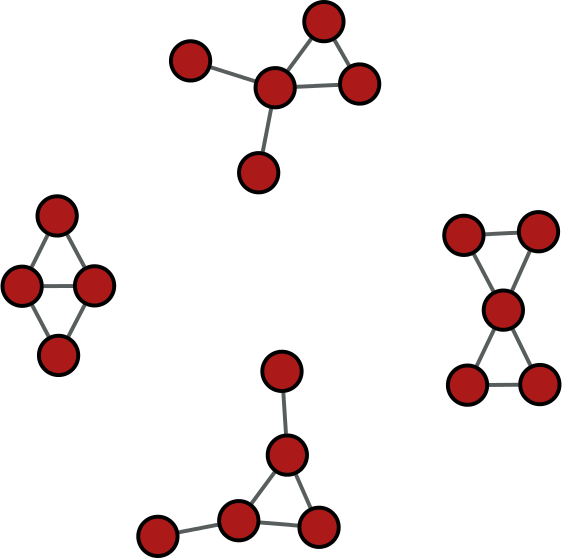
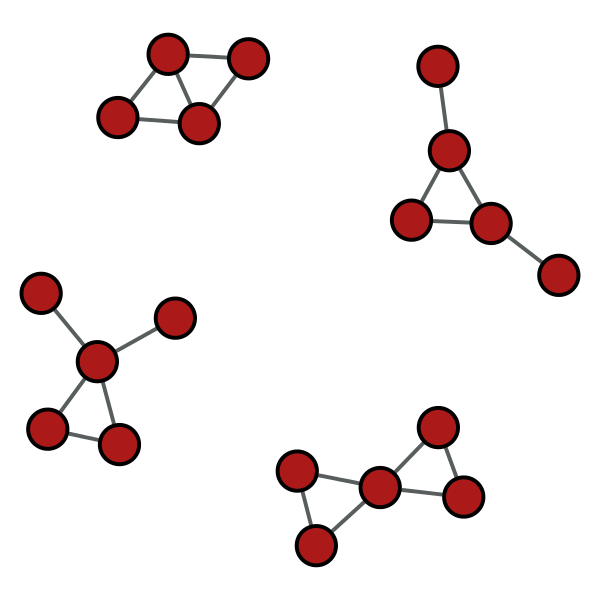
Added table for secondary sequences.

Changed region(s): [[0.1512, 0.0, 1.0, 1.0], [0.0, 0.3351, 0.3327, 0.7921]]

diff --git a/report/report.tex b/report/report.tex
@@ -194,8 +194,9 @@ building sequences
 \newcommand{\VARdiameter}{\text{dia}(g)}
 \newcommand{\VARgirth}{\text{girth}(g)}
 \newcommand{\VARnarticulationpoints}{a(g)}
-\newcommand{\VARsubgraph}{s}
+\newcommand{\VARmaximalindependentvertexset}{\alpha(g)}
 
+\newcommand{\VARsubgraph}{s}
 \newcommand{\namedsubgraph}[1]{\VARsubgraph{}(g,#1)}
 \newcommand{\VARissubgraphfreeKthree}{\namedsubgraph{K_3}}
 \newcommand{\VARissubgraphfreeKfour}{\namedsubgraph{K_4}}
@@ -216,8 +217,11 @@ building sequences
 \newcommand{\VARisintegral}{\indicatorfunction{integral}}
 \newcommand{\VARischordal}{\indicatorfunction{chordal}}
 \newcommand{\VARisrealspectrum}{\indicatorfunction{real}}
-
-%\newcommand{\VARhasfractionaldualitygapvertexchromatic}{}
+\newcommand{\VARhasfractionaldualitygapvertexchromatic}{\indicatorfunction{chromatic gap}}
+\newcommand{\VARishamiltonian}{\indicatorfunction{Hamiltonian}}
+\newcommand{\VARisbipartite}{\indicatorfunction{Bipartite}}
+\newcommand{\VARiseulerian}{\indicatorfunction{Eulerian}}
+\newcommand{\VARisplanar}{\indicatorfunction{Planar}}
 
 \note{Broadly describe the categories}
 Discuss which algorithm was used, the software, \texttt{networkx} \cite{SciPyProceedings_11}, \texttt{graph-tool} \needref, etc...
@@ -399,17 +403,91 @@ OEIS & Invariant & \multicolumn{10}{l}{Sequence} \\
 \OEIS{A242953} & $\VARisrealspectrum =0$ & 0 & 0 & 1 & 3 & 10 & 58 & 314 & 3798 & 51609 & 1716267 \\
 \OEIS{A243241} & $\VARisstronglyregular =0$ & 0 & 0 & 1 & 4 & 19 & 109 & 852 & 11114 & 261077 & 11716566 \\
 
-%\OEIS{A243251} & $\VARhasfractionaldualitygapvertexchromatic =1$ & 0 & 0 & 0 & 0 & 1 & 3 & 33 & 496 & 16464 & 969293 \\
-%\OEIS{A243252} & $\VARhasfractionaldualitygapvertexchromatic =0$ & 1 & 1 & 2 & 6 & 20 & 109 & 820 & 10621 & 244616 & 10747278 \\
-%\OEIS{A243781} & $\VARmaximalindependentvertexset =2$ & 0 & 0 & 1 & 4 & 11 & 34 & 103 & 405 & 1892 & 12166 \\
-%\OEIS{A243782} & $\VARmaximalindependentvertexset =3$ & 0 & 0 & 0 & 1 & 8 & 63 & 524 & 5863 & 100702 & 2880002 \\
-%\OEIS{A243783} & $\VARmaximalindependentvertexset =4$ & 0 & 0 & 0 & 0 & 1 & 13 & 205 & 4308 & 135563 & 7161399 \\
-%\OEIS{A243784} & $\VARmaximalindependentvertexset =5$ & 0 & 0 & 0 & 0 & 0 & 1 & 19 & 513 & 21782 & 1576634 \\
+\OEIS{A243251} & $\VARhasfractionaldualitygapvertexchromatic =1$ & 0 & 0 & 0 & 0 & 1 & 3 & 33 & 496 & 16464 & 969293 \\
+\OEIS{A243252} & $\VARhasfractionaldualitygapvertexchromatic =0$ & 1 & 1 & 2 & 6 & 20 & 109 & 820 & 10621 & 244616 & 10747278 \\
+
+\OEIS{A243781} & $\VARmaximalindependentvertexset =2$ & 0 & 0 & 1 & 4 & 11 & 34 & 103 & 405 & 1892 & 12166 \\
+\OEIS{A243782} & $\VARmaximalindependentvertexset =3$ & 0 & 0 & 0 & 1 & 8 & 63 & 524 & 5863 & 100702 & 2880002 \\
+\OEIS{A243783} & $\VARmaximalindependentvertexset =4$ & 0 & 0 & 0 & 0 & 1 & 13 & 205 & 4308 & 135563 & 7161399 \\
+\OEIS{A243784} & $\VARmaximalindependentvertexset =5$ & 0 & 0 & 0 & 0 & 0 & 1 & 19 & 513 & 21782 & 1576634 \\
 
 \end{longtable}
 
 \subsection{Secondary sequences}
-\note{Add table of secondary sequences}
+
+\begin{longtable}{ l l r r r r r r r r r r}
+\toprule
+OEIS & Invariant & \multicolumn{10}{l}{Sequence} \\
+\midrule\bottomrule
+\OEIS{A243270} & $\VARishamiltonian =1$, $\VARisbipartite =1$ & 1 & 0 & 0 & 1 & 0 & 4 & 0 & 24 & 0 & 473 \\
+\OEIS{A243271} & $\VARishamiltonian =1$, $\VARisdistanceregular =1$ & 1 & 0 & 1 & 2 & 2 & 4 & 2 & 5 & 4 & 6 \\
+\OEIS{A243272} & $\VARishamiltonian =1$, $\VARiseulerian =1$ & 1 & 0 & 1 & 1 & 2 & 5 & 21 & 120 & 1312 & 26525 \\
+\OEIS{A243273} & $\VARishamiltonian =1$, $\VARisintegral =0$ & 0 & 0 & 0 & 1 & 7 & 43 & 379 & 6185 & 177071 & 9305068 \\
+\OEIS{A243274} & $\VARishamiltonian =1$, $\VARisintegral =1$ & 1 & 0 & 1 & 2 & 1 & 5 & 4 & 11 & 12 & 50 \\
+\OEIS{A243275} & $\VARishamiltonian =1$, $\VARissubgraphfreeKthree =0$ & 1 & 0 & 0 & 1 & 1 & 4 & 5 & 35 & 130 & 1293 \\
+\OEIS{A243276} & $\VARishamiltonian =1$, $\VARissubgraphfreeKfour =0$ & 1 & 0 & 1 & 2 & 5 & 29 & 188 & 2481 & 52499 & 1857651 \\
+\OEIS{A243319} & $\VARisbipartite =1$, $\VARisdistanceregular =1$ & 1 & 1 & 0 & 1 & 0 & 2 & 0 & 3 & 0 & 3 \\
+\OEIS{A243320} & $\VARisbipartite =1$, $\VARiseulerian =1$ & 1 & 0 & 0 & 1 & 0 & 2 & 1 & 6 & 7 & 29 \\
+\OEIS{A243321} & $\VARisbipartite =1$, $\VARisplanar =1$ & 1 & 1 & 1 & 3 & 5 & 16 & 41 & 158 & 582 & 2749 \\
+\OEIS{A243322} & $\VARisdistanceregular =1$, $\VARiseulerian =1$ & 1 & 0 & 1 & 1 & 2 & 2 & 2 & 3 & 4 & 4 \\
+\OEIS{A243323} & $\VARisintegral =0$, $\VARisbipartite =1$ & 0 & 0 & 1 & 2 & 4 & 14 & 43 & 179 & 730 & 4019 \\
+\OEIS{A243324} & $\VARisintegral =0$, $\VARiseulerian =1$ & 0 & 0 & 0 & 0 & 2 & 6 & 33 & 180 & 1773 & 31006 \\
+\OEIS{A243325} & $\VARisintegral =0$, $\VARisplanar =1$ & 0 & 0 & 1 & 4 & 18 & 95 & 642 & 5962 & 71876 & 1052786 \\
+\OEIS{A243326} & $\VARisintegral =0$, $\VARissubgraphfreeKthree =0$ & 0 & 0 & 1 & 2 & 5 & 16 & 58 & 264 & 1380 & 9818 \\
+\OEIS{A243327} & $\VARisintegral =0$, $\VARissubgraphfreeKfour =0$ & 0 & 0 & 1 & 4 & 15 & 77 & 531 & 5597 & 95900 & 2784034 \\
+\OEIS{A243328} & $\VARisintegral =1$, $\VARisbipartite =1$ & 1 & 1 & 0 & 1 & 1 & 3 & 1 & 3 & 0 & 13 \\
+\OEIS{A243329} & $\VARisintegral =1$, $\VARisdistanceregular =1$ & 1 & 1 & 1 & 2 & 1 & 4 & 1 & 4 & 3 & 6 \\
+\OEIS{A243330} & $\VARisintegral =1$, $\VARiseulerian =1$ & 1 & 0 & 1 & 1 & 2 & 2 & 4 & 4 & 9 & 20 \\
+\OEIS{A243331} & $\VARisintegral =1$, $\VARisplanar =1$ & 1 & 1 & 1 & 2 & 2 & 4 & 4 & 12 & 9 & 19 \\
+\OEIS{A243332} & $\VARisintegral =1$, $\VARissubgraphfreeKthree =0$ & 1 & 1 & 0 & 1 & 1 & 3 & 1 & 3 & 0 & 14 \\
+\OEIS{A243333} & $\VARisintegral =1$, $\VARissubgraphfreeKfour =0$ & 1 & 1 & 1 & 1 & 2 & 5 & 5 & 9 & 15 & 38 \\
+\OEIS{A243334} & $\VARissubgraphfreeKthree =0$, $\VARisdistanceregular =1$ & 1 & 1 & 0 & 1 & 1 & 2 & 1 & 3 & 1 & 4 \\
+\OEIS{A243335} & $\VARissubgraphfreeKthree =0$, $\VARiseulerian =1$ & 1 & 0 & 0 & 1 & 1 & 2 & 3 & 8 & 19 & 62 \\
+\OEIS{A243336} & $\VARissubgraphfreeKfour =0$, $\VARiseulerian =1$ & 1 & 0 & 1 & 1 & 3 & 6 & 22 & 93 & 656 & 7484 \\
+\OEIS{A243337} & $\VARissubgraphfreeKfour =0$, $\VARisplanar =1$ & 1 & 1 & 2 & 5 & 17 & 79 & 478 & 4123 & 46666 & 648758 \\
+\OEIS{A243338} & $\VARistree =1$, $\VARisintegral =0$ & 0 & 0 & 1 & 2 & 2 & 5 & 10 & 23 & 47 & 105 \\
+\OEIS{A243339} & $\VARissubgraphfreeKfour =0$, $\VARisdistanceregular =1$ & 1 & 1 & 1 & 1 & 1 & 3 & 1 & 3 & 3 & 4 \\
+\OEIS{A243545} & $\VARishamiltonian =1$, $\VARissubgraphfreebowtie =0$ & 1 & 0 & 1 & 3 & 3 & 14 & 50 & 390 & 3627 & 52858 \\
+\OEIS{A243546} & $\VARissubgraphfreebowtie =0$, $\VARisdistanceregular =1$ & 1 & 1 & 1 & 2 & 1 & 2 & 1 & 3 & 1 & 4 \\
+\OEIS{A243547} & $\VARissubgraphfreebowtie =0$, $\VARiseulerian =1$ & 1 & 0 & 1 & 1 & 2 & 4 & 8 & 35 & 115 & 629 \\
+\OEIS{A243548} & $\VARissubgraphfreebowtie =0$, $\VARisintegral =1$ & 1 & 1 & 1 & 2 & 2 & 4 & 1 & 8 & 1 & 19 \\
+\OEIS{A243549} & $\VARissubgraphfreebowtie =0$, $\VARisintegral =0$ & 0 & 0 & 1 & 4 & 13 & 56 & 272 & 1761 & 14835 & 174092 \\
+\OEIS{A243550} & $\VARissubgraphfreebowtie =0$, $\VARisplanar =1$ & 1 & 1 & 2 & 6 & 15 & 58 & 255 & 1510 & 10766 & 94109 \\
+\OEIS{A243551} & $\VARissubgraphfreebowtie =0$, $\VARissubgraphfreeKfour =0$ & 1 & 1 & 2 & 5 & 14 & 56 & 256 & 1656 & 13952 & 163878 \\
+\OEIS{A243552} & $\VARissubgraphfreebowtie =0$, $\VARissubgraphfreebull =0$ & 1 & 1 & 2 & 6 & 8 & 25 & 77 & 333 & 1668 & 11355 \\
+\OEIS{A243553} & $\VARishamiltonian =1$, $\VARissubgraphfreebull =0$ & 1 & 0 & 1 & 3 & 1 & 4 & 5 & 35 & 130 & 1293 \\
+\OEIS{A243554} & $\VARissubgraphfreebull =0$, $\VARisdistanceregular =1$ & 1 & 1 & 1 & 2 & 1 & 2 & 1 & 3 & 1 & 4 \\
+\OEIS{A243555} & $\VARissubgraphfreebull =0$, $\VARiseulerian =1$ & 1 & 0 & 1 & 1 & 2 & 3 & 5 & 14 & 30 & 95 \\
+\OEIS{A243556} & $\VARissubgraphfreebull =0$, $\VARisintegral =1$ & 1 & 1 & 1 & 2 & 1 & 3 & 2 & 3 & 0 & 14 \\
+\OEIS{A243557} & $\VARissubgraphfreebull =0$, $\VARisintegral =0$ & 0 & 0 & 1 & 4 & 8 & 23 & 78 & 337 & 1690 & 11418 \\
+\OEIS{A243558} & $\VARissubgraphfreebull =0$, $\VARisplanar =1$ & 1 & 1 & 2 & 6 & 9 & 25 & 76 & 302 & 1360 & 7606 \\
+\OEIS{A243559} & $\VARissubgraphfreebull =0$, $\VARissubgraphfreeKfour =0$ & 1 & 1 & 2 & 5 & 9 & 26 & 80 & 340 & 1690 & 11432 \\
+\OEIS{A243560} & $\VARishamiltonian =1$, $\VARissubgraphfreediamond =0$ & 1 & 0 & 1 & 1 & 2 & 9 & 27 & 190 & 1750 & 25658 \\
+\OEIS{A243561} & $\VARissubgraphfreediamond =0$, $\VARisdistanceregular =1$ & 1 & 1 & 1 & 1 & 1 & 2 & 1 & 3 & 2 & 4 \\
+\OEIS{A243562} & $\VARissubgraphfreediamond =0$, $\VARiseulerian =1$ & 1 & 0 & 1 & 1 & 2 & 3 & 8 & 21 & 79 & 334 \\
+\OEIS{A243563} & $\VARissubgraphfreediamond =0$, $\VARisintegral =0$ & 0 & 0 & 1 & 3 & 10 & 35 & 162 & 964 & 7682 & 86994 \\
+\OEIS{A243564} & $\VARissubgraphfreediamond =0$, $\VARisintegral =1$ & 1 & 1 & 1 & 1 & 1 & 4 & 3 & 3 & 2 & 18 \\
+\OEIS{A243565} & $\VARissubgraphfreediamond =0$, $\VARisplanar =1$ & 1 & 1 & 2 & 4 & 11 & 38 & 159 & 882 & 6242 & 55316 \\
+\OEIS{A243566} & $\VARissubgraphfreediamond =0$, $\VARissubgraphfreeKfour =0$ & 1 & 1 & 2 & 4 & 11 & 39 & 165 & 967 & 7684 & 87012 \\
+\OEIS{A243567} & $\VARissubgraphfreediamond =0$, $\VARissubgraphfreebowtie =0$ & 1 & 1 & 2 & 4 & 10 & 36 & 141 & 784 & 5626 & 56249 \\
+\OEIS{A243568} & $\VARissubgraphfreediamond =0$, $\VARissubgraphfreebull =0$ & 1 & 1 & 2 & 4 & 9 & 26 & 80 & 340 & 1690 & 11432 \\
+\OEIS{A243789} & $\VARissubgraphfreeopenbowtie =0$, $\VARissubgraphfreediamond =0$ & 1 & 1 & 2 & 4 & 9 & 30 & 89 & 379 & 1864 & 12365 \\
+\OEIS{A243790} & $\VARissubgraphfreeopenbowtie =0$, $\VARishamiltonian =1$ & 1 & 0 & 1 & 3 & 3 & 9 & 13 & 59 & 203 & 1651 \\
+\OEIS{A243791} & $\VARissubgraphfreeopenbowtie =0$, $\VARiseulerian =1$ & 1 & 0 & 1 & 1 & 1 & 2 & 3 & 8 & 19 & 62 \\
+\OEIS{A243792} & $\VARissubgraphfreeopenbowtie =0$, $\VARisintegral =1$ & 1 & 1 & 1 & 2 & 1 & 4 & 1 & 3 & 0 & 15 \\
+\OEIS{A243783} & $\VARissubgraphfreeopenbowtie =0$, $\VARisintegral =0$ & 0 & 0 & 1 & 4 & 10 & 30 & 97 & 405 & 1957 & 12725 \\
+\OEIS{A243794} & $\VARissubgraphfreeopenbowtie =0$, $\VARisplanar =1$ & 1 & 1 & 2 & 6 & 11 & 33 & 94 & 370 & 1627 & 8895 \\
+\OEIS{A243795} & $\VARissubgraphfreeopenbowtie =0$, $\VARissubgraphfreebull =0$ & 1 & 1 & 2 & 6 & 7 & 22 & 65 & 285 & 1442 & 10106 \\
+\OEIS{A243253} & $\VARischordal =1$, $\VARiseulerian =1$ & 1 & 0 & 1 & 0 & 3 & 2 & 13 & 18 & 116 & 366 \\
+\OEIS{A243785} & $\VARischordal =1$, $\VARisintegral =0$ & 0 & 0 & 1 & 4 & 12 & 56 & 267 & 1605 & 11909 & 109525 \\
+\OEIS{A243786} & $\VARischordal =1$, $\VARisintegral =1$ & 1 & 1 & 1 & 1 & 3 & 2 & 5 & 9 & 2 & 14 \\
+\OEIS{A243787} & $\VARischordal =1$, $\VARisplanar =1$ & 1 & 1 & 2 & 5 & 14 & 52 & 228 & 1209 & 7463 & 52520 \\
+\OEIS{A243788} & $\VARischordal =1$, $\VARissubgraphfreeKfour =0$ & 1 & 1 & 2 & 4 & 11 & 35 & 124 & 500 & 2224 & 10640 \\
+\OEIS{A243796} & $\VARishamiltonian =1$, $\VARischordal =1$ & 1 & 0 & 1 & 2 & 4 & 15 & 58 & 360 & 2793 & 28761 \\
+\OEIS{A243797} & $\VARissubgraphfreebowtie =0$, $\VARischordal =1$ & 1 & 1 & 2 & 5 & 10 & 27 & 70 & 206 & 613 & 1942 \\
+\OEIS{A243798} & $\VARissubgraphfreebull =0$, $\VARischordal =1$ & 1 & 1 & 2 & 5 & 6 & 12 & 25 & 55 & 126 & 304 \\
+\OEIS{A243799} & $\VARissubgraphfreeopenbowtie =0$, $\VARischordal =1$ & 1 & 1 & 2 & 5 & 6 & 13 & 25 & 58 & 130 & 316 \\
+\end{longtable}
 
 \section{Relations}
 \label{app:relations}

diff --git a/report/format_tables/read_sub2.py b/report/format_tables/read_sub2.py
@@ -1,0 +1,57 @@
+f = "verification/submission_lvl2.md"
+
+extra = "[]_"
+def remove_extra(s):
+    for ex in extra:
+        s = s.replace(ex,"")
+    return s
+
+def split_name(name):
+    
+    for n in xrange(len(name)):
+        if name[n] in "=<>":
+            return name[:n], name[n:]
+
+def remove_numbers(name):
+    word_names = {1:"one",2:"two",3:"three",4:"four",5:"five",6:"six",
+                    7:"seven",8:"eight",9:"nine",10:"ten"}
+    for k,v in word_names.items():
+        name = name.replace(str(k),v)
+    return name
+        
+
+with open(f) as FIN:
+    for line in FIN:
+        if line.strip():
+            output = []
+            if "+" == line.strip()[0]:
+                terms = line.split('`')
+                OEIS = "\\OEIS{%s}" % terms[1]
+                raw_name = remove_extra(terms[3])
+
+                split_raw_names = [x.strip() for x in raw_name.split('AND')]
+
+                all_names = []
+                for x in split_raw_names:
+
+                    name, cond = split_name(x)
+                    name = remove_numbers(name)
+
+                    # Modify what we are trying to display
+                    if "subgraphfree" in name:
+                        if cond=="=0": cond = ">0"
+                        elif cond=="=1": cond = "=0"
+                        
+                    name = "$\\VAR%s %s$" % (name,cond)
+                    all_names.append(name)
+                
+                final_name = ', '.join(all_names)
+                output = [OEIS, final_name]
+                
+
+                seq = terms[5]
+                seq = seq.replace(',',' ').split()
+                output = output + seq
+                print ' & '.join(output) + ' \\\\'
+            
+        if "Unsubmitted" in line: break

diff --git a/report/simple_drawings/simple_drawings.py b/report/simple_drawings/simple_drawings.py
@@ -19,5 +19,17 @@ add_to(g,inv._open_bowtie_graph)
 add_to(g,inv._bull_graph)
 
 f_png = "combined_subgraphs.png"
-pos = gt.draw.fruchterman_reingold_layout(g,a=20,scale=1.,circular=True)
-inv.viz_graph(g, output=f_png)
+pos = gt.draw.sfdp_layout(g, cooling_step=0.99)
+help( gt.draw.sfdp_layout )
+
+print pos.a, pos.fa, pos.ma
+exit()
+print pos.get_array()
+help(pos)
+
+for n in pos:
+    print n
+
+for n in g.vertices():
+    print dir(g.vertex(n))
+#graph_tool.draw.graph_draw(g,pos,output=f_png)

diff --git a/verification/submission_lvl2.md b/verification/submission_lvl2.md
@@ -73,6 +73,8 @@
 + [`A243798`](https://oeis.org/A243798)  *`is_subgraph_free_bull=1 AND is_chordal=1`*, `1,1,2,5,6,12,25,55,126,304`
 + [`A243799`](https://oeis.org/A243799)  *`is_subgraph_free_open_bowtie=1 AND is_chordal=1`*, `1,1,2,5,6,13,25,58,130,316`
 
+## Unsubmitted
+
 ## Already in database
 
 *`is_hamiltonian=1 AND is_planar=1`*
